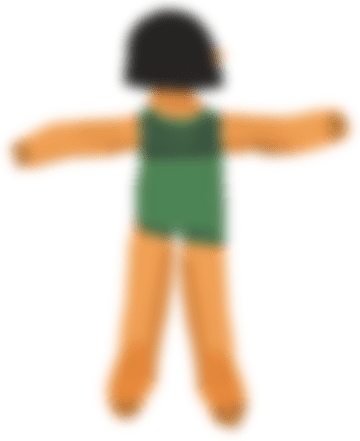
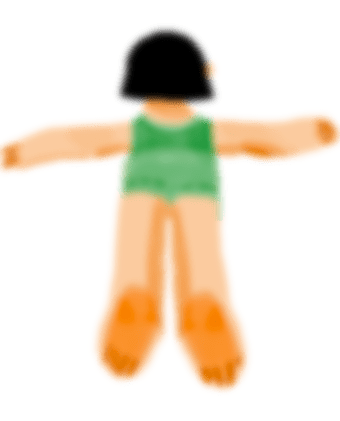
update game3 swim image

diff --git a/js/game/game3-main.js b/js/game/game3-main.js
@@ -256,9 +256,9 @@ function StartGame3() {
         "wave2_2": {transform:{posX:1300, posY:450, sizeX:750, sizeY:160, anchorX:0.5, anchorY:0.5},bitmap:gameAssetLibrary.data["game3-wave2"]},
         "wave2_3": {transform:{posX:1300, posY:450, sizeX:750, sizeY:160, anchorX:0.5, anchorY:0.5},bitmap:gameAssetLibrary.data["game3-wave2"]},
 
-        "swim": {transform:{posX:864, posY:920, sizeX:340, sizeY:421, anchorX:0.5, anchorY:0.5},sprite:{spriteSheet:swimSpriteSheet, spriteIndices:[0,1,2]}},
+        "swim": {transform:{posX:864, posY:840, sizeX:340, sizeY:421, anchorX:0.5, anchorY:0.5},sprite:{spriteSheet:swimSpriteSheet, spriteIndices:[0,1,2]}},
         "swim_blur": {transform:{posX:864, posY:850, sizeX:360, sizeY:441, anchorX:0.5, anchorY:0.5},bitmap:gameAssetLibrary.data["game3-swim-blur"]},
-        "swim_wave": {transform:{posX:864, posY:870, sizeX:440, sizeY:160, anchorX:0.5, anchorY:0.5},bitmap:gameAssetLibrary.data["game3-swim-wave"]},
+        "swim_wave": {transform:{posX:864, posY:850, sizeX:440, sizeY:200, anchorX:0.5, anchorY:0.5},bitmap:gameAssetLibrary.data["game3-swim-wave"]},
 
         "rubbish1": {transform:{posX:-300, posY:450, sizeX:300, sizeY:139, anchorX:0.5, anchorY:0.5},bitmap:gameAssetLibrary.data["game3-rubbish1"]},
         "rubbish2": {transform:{posX:-500, posY:550, sizeX:60, sizeY:75, anchorX:0.5, anchorY:0.5},bitmap:gameAssetLibrary.data["game3-rubbish2"]},
@@ -406,7 +406,7 @@ function LoopGame3(_evt) {
         let diveTime = gameDivingTimeBuffer / gameDivingInterval;
         let diveScale = Math.sin(diveTime*Math.PI);
         let diveBlurValue = diveScale * 0.5;
-        let divePosY = 920 - diveScale * diveScale * 100;
+        let divePosY = 840 - diveScale * diveScale * 75;
         let diveAlpha = 1 - diveScale;
         diveScale = (2.5 - diveScale * diveScale) / 2.5;
         game_swim.transform.posY = divePosY;
